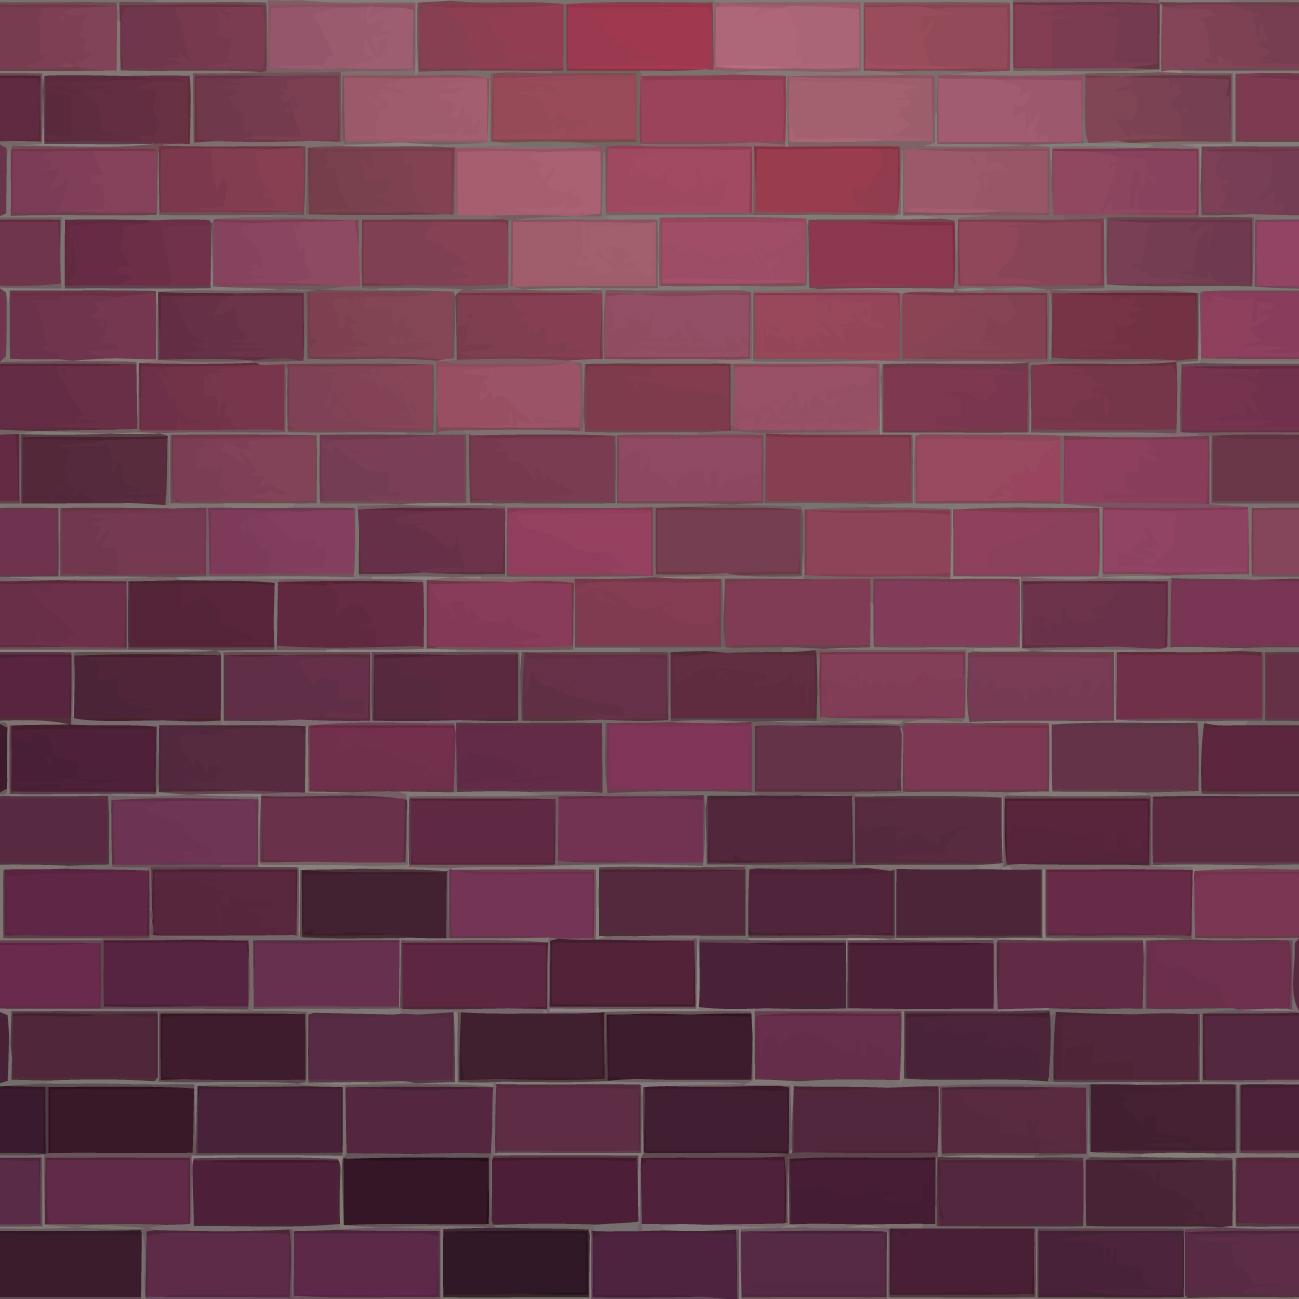
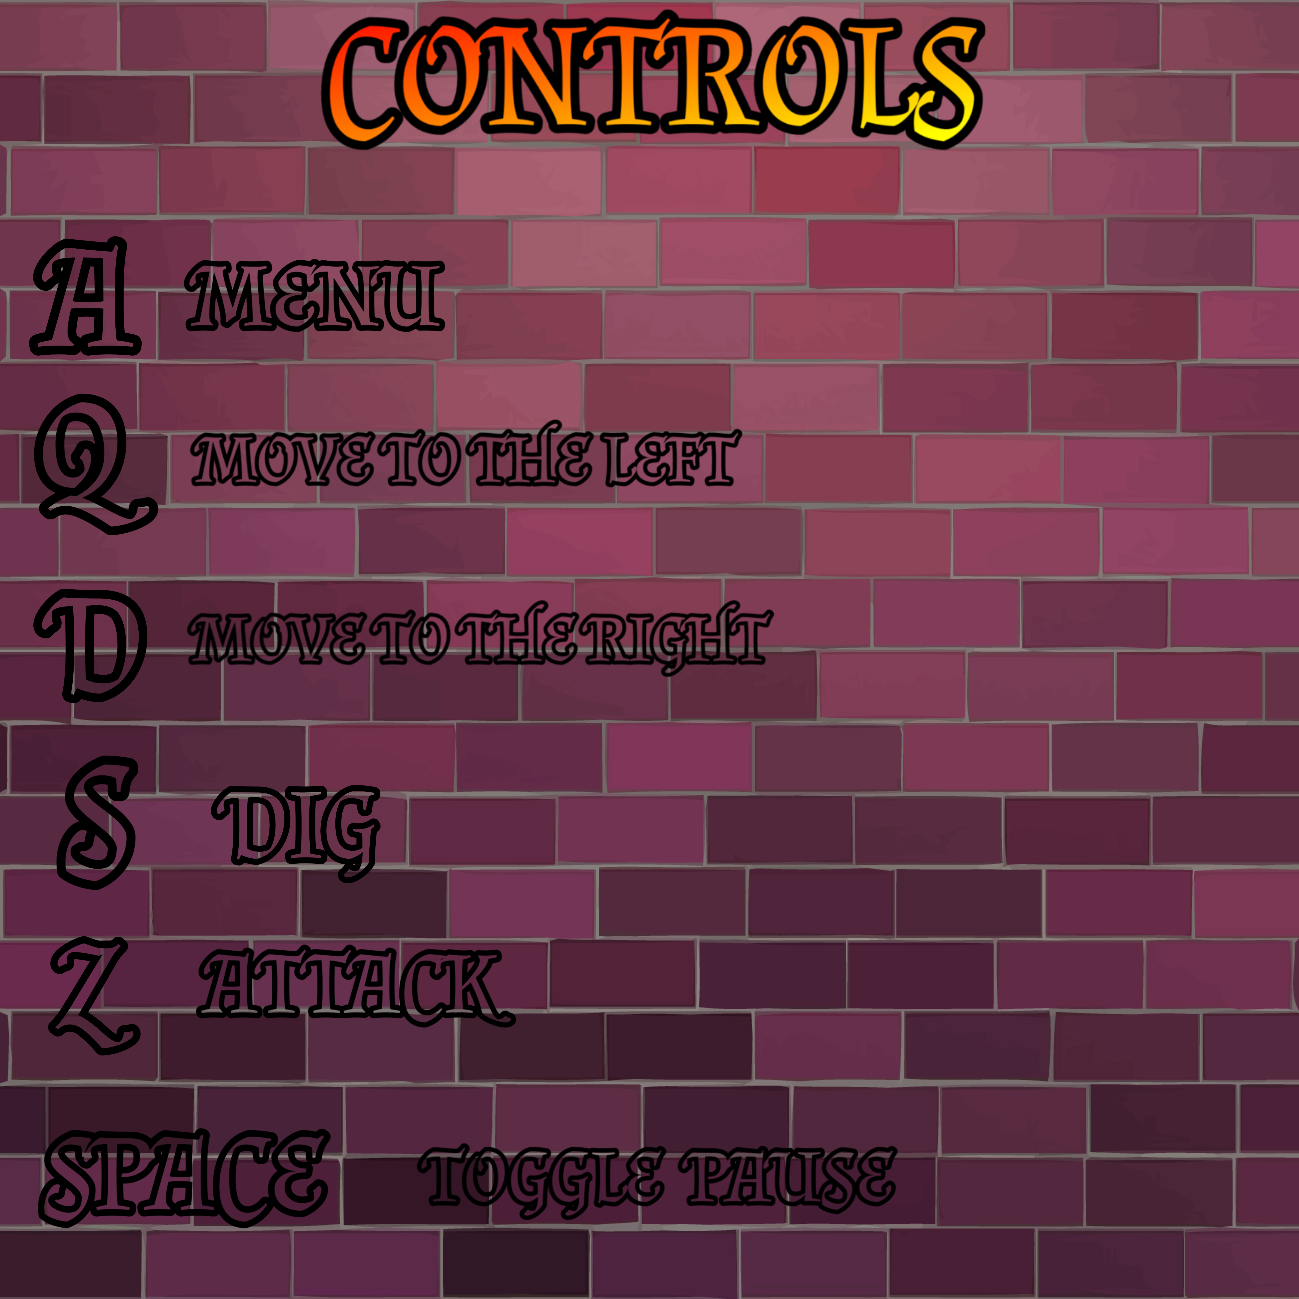
Mise en place du menu paramètre avec les commandes

diff --git a/src/main.c b/src/main.c
@@ -27,7 +27,7 @@ SDL_Rect jackRect = { (TAILLE_L + 30) / 2, (TAILLE_H - 195) / 2, 80, 100 };
 SDL_Rect yohanRect = { (TAILLE_L - 165) / 2, (TAILLE_H + 15) / 2, 80, 100 };
 SDL_Rect aniaRect = { (TAILLE_L + 30) / 2, (TAILLE_H + 15) / 2, 80, 100 };
 
-SDL_Rect controlsRect = { (TAILLE_L - 165) / 2, (TAILLE_H - 195) / 2, 80, 100 };
+SDL_Rect controlsRect = { (TAILLE_L - 400) / 2, (TAILLE_H +15) / 2, 230, 75 };
 
 
 int main() {
@@ -270,19 +270,20 @@ t_bouton * menus[3][10] = {
                 case SDL_MOUSEBUTTONDOWN:
                     if (event.button.button == SDL_BUTTON_LEFT) {
                         SDL_Point pointeur = {event.button.x, event.button.y};
-                        if(SDL_PointInRect(&pointeur, &controlsRect)){
-                            SDL_SetRenderDrawColor(rend, 255, 0, 0, 255); // Couleur rouge
-                            SDL_RenderDrawRect(rend, &controlsRect); // Dessiner le rectangle
-                            
+                        if (etat.i_menu == PAGE_MENU_PARAMETRES) {
+                            if (SDL_PointInRect(&pointeur, &controlsRect)) {
+                                SDL_SetRenderDrawColor(rend, 255, 0, 0, 255); // Couleur rouge
+                                SDL_RenderDrawRect(rend, &controlsRect); // Dessiner le rectangle
 
-                            // Charger et afficher la texture du nouveau fond
-                            SDL_Texture* nouveauFond = recuperer_texture("menu_commandes");
-                            SDL_Rect destRect = {0, 0, TAILLE_L, TAILLE_H}; // Rectangle de destination pour le rendu
-                            SDL_RenderCopy(rend, nouveauFond, NULL, &destRect);
-                            SDL_RenderPresent(rend); // Mettre à jour le rendu
-                            SDL_Delay(5000); // Attendre 2 secondes (2000 millisecondes)
-                            printf("Coontrols sélectionné\n");
-
+                                // Charger et afficher la texture du nouveau fond
+                                SDL_Texture* nouveauFond = recuperer_texture("menu_commandes");
+                                SDL_Rect destRect = {0, 0, TAILLE_L, TAILLE_H}; // Rectangle de destination pour le rendu
+                                SDL_RenderCopy(rend, nouveauFond, NULL, &destRect);
+                                SDL_RenderPresent(rend); // Mettre à jour le rendu
+                                SDL_Delay(5000); // Attendre 5 secondes (5000 millisecondes)
+                                printf("Controls sélectionné\n");
+                                
+                            }
                         }
                         // Vérifier si le clic se trouve à l'intérieur du rectangle de Matt
                         if (SDL_PointInRect(&pointeur, &mattRect)) {
@@ -428,7 +429,7 @@ t_bouton * menus[3][10] = {
 
             SDL_Color couleur_txt_yohan = {255,165,0,255};
             TTF_Font * font3 = TTF_OpenFont("ressources/Menu/Police/font1.ttf", 50);
-            SDL_Surface * surface_txt_chargement = TTF_RenderText_Solid(font3, "YO HAN", couleur_txt_yohan);
+            SDL_Surface * surface_txt_chargement = TTF_RenderText_Solid(font3, "AOHYN", couleur_txt_yohan);
             SDL_Rect dst_txt_chargement = {TAILLE_L/2 + 215, TAILLE_H/2 - 215, 200, 50};
             SDL_Texture * tex_txt_chargement = SDL_CreateTextureFromSurface(rend, surface_txt_chargement);;
             SDL_RenderCopy(rend, tex_txt_chargement, NULL, &dst_txt_chargement);
